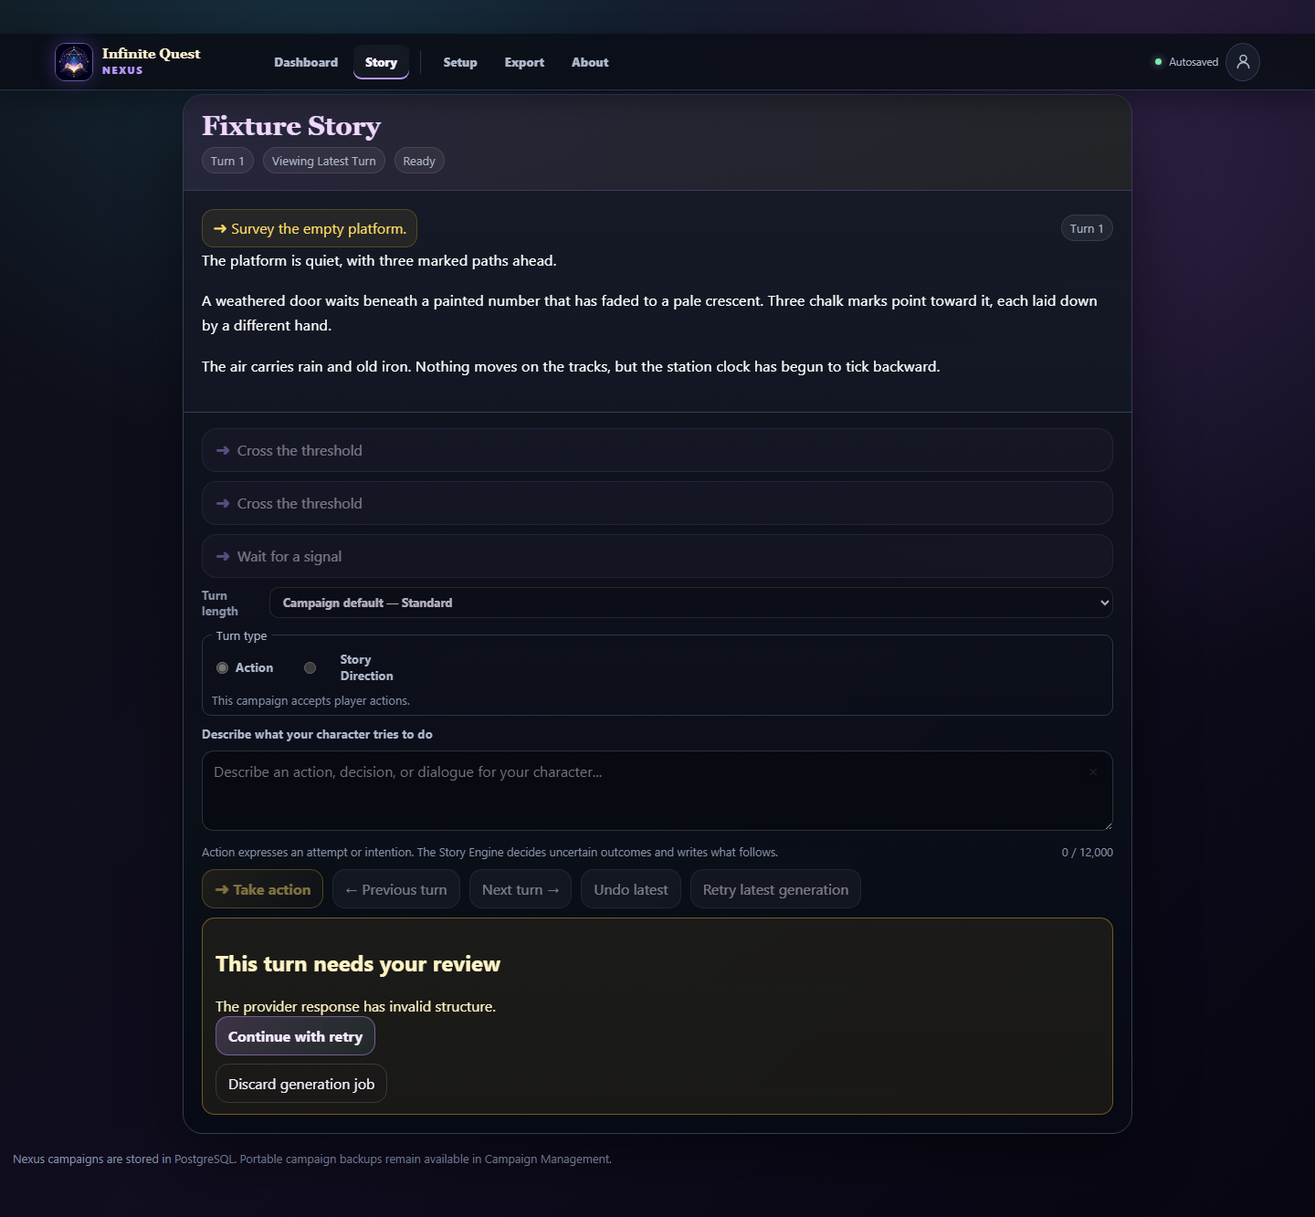
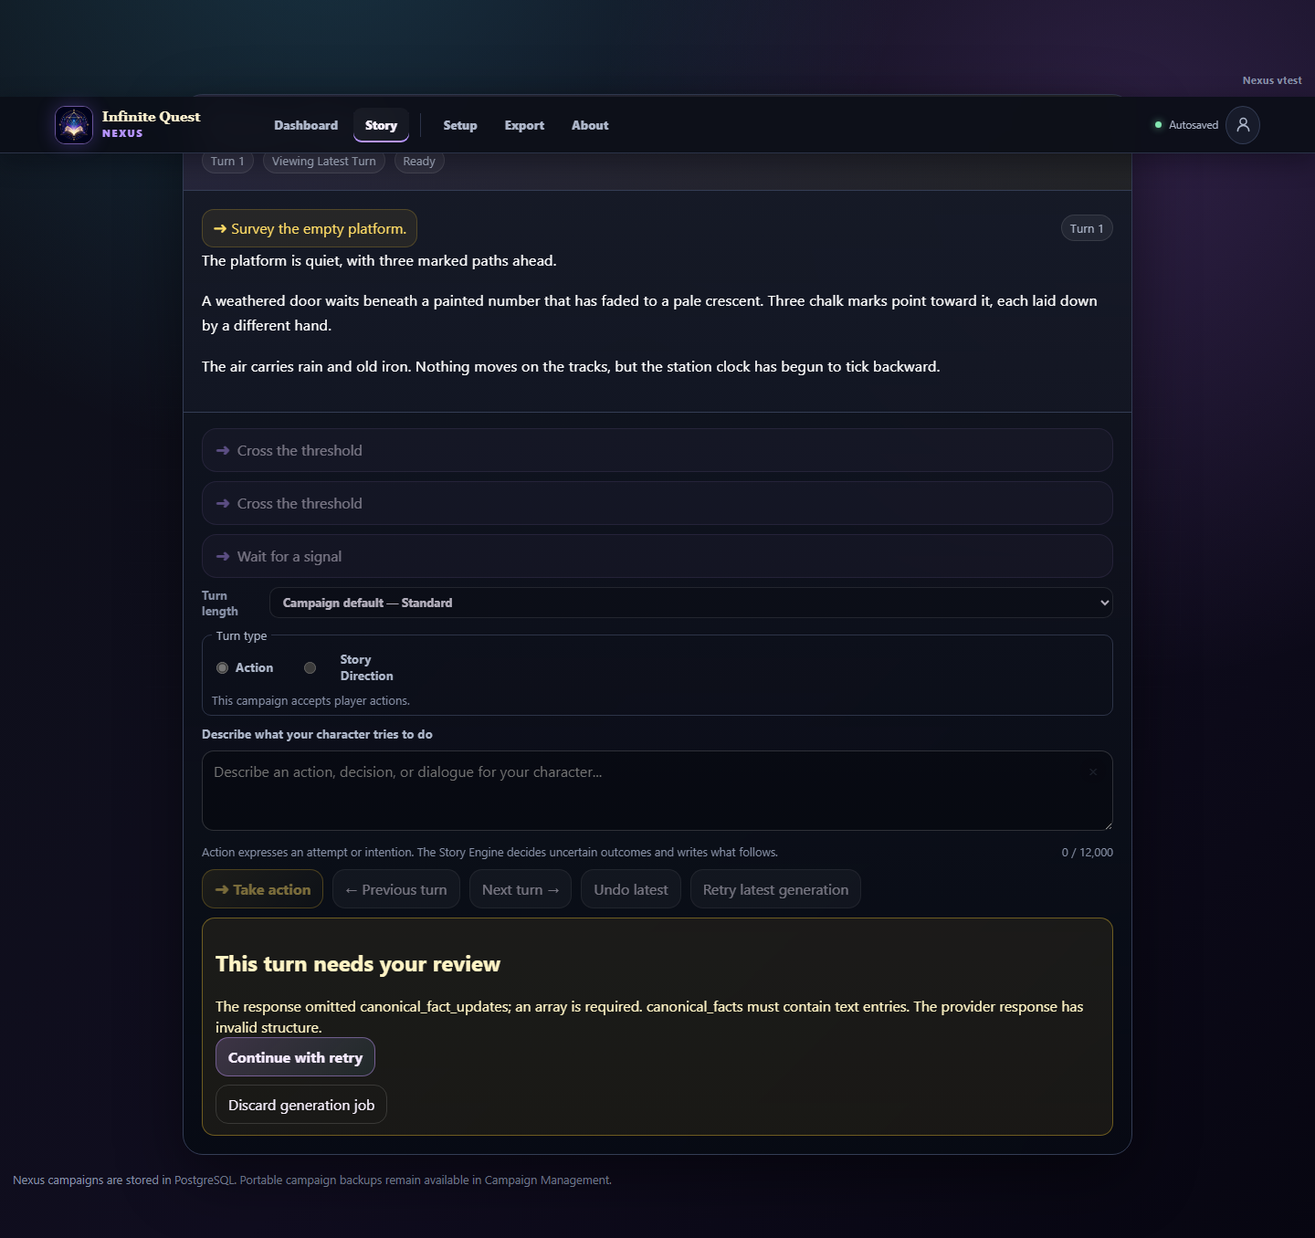
Explain generation structure review failures

diff --git a/tests/integration/generation-review.integration.test.ts b/tests/integration/generation-review.integration.test.ts
@@ -79,7 +79,7 @@ integration("PostgreSQL generation review persistence", () => {
     const reasons: GenerationReviewCheckpoint["reasons"] = eligible ? ["scene_beats_missing"] : ["invalid_structure"];
     const candidate = {
       scope: "main" as const, story, storyHash: sha256Hex(canonicalEvidenceJson(story)), rawOutputReference: null,
-      producingRequestHash: "a".repeat(64), producingResponseId: null, sentFactIds: [], ownerUserId, campaignId: imported.campaignId,
+      producingRequestHash: "a".repeat(64), producingResponseId: "review-response", sentFactIds: [], ownerUserId, campaignId: imported.campaignId,
       worldId: world.rows[0]!.worldId, worldVersionId: payload.world_version_id ?? null, baseTurnNumber: payload.generation_base_identity.baseTurnNumber,
       expectedTurnNumber: payload.expected_turn_number, policy: {}, policyHash: "b".repeat(64), baseIdentity: payload.generation_base_identity,
       protocol: { version: payload.prompt_protocol_version, promptHash: "c".repeat(64) },
@@ -101,6 +101,14 @@ integration("PostgreSQL generation review persistence", () => {
   it("publishes the complete checkpoint while releasing its lease and blocking ordinary retry", async () => {
     const fixture = await pendingReview();
     const commandsAfterPause = commands();
+    await pool.query(
+      `INSERT INTO generation_attempts (owner_user_id, generation_job_id, attempt_number, provider_response_id, validation_errors)
+       VALUES ($1,$2,1,$3,$4::jsonb)`,
+      [ownerUserId, fixture.queued.id, "review-response", JSON.stringify([
+        "superseded_facts: Invalid input: expected array, received undefined",
+        "canonical_fact_updates: Invalid input: expected array, received undefined"
+      ])]
+    );
     const row = await pool.query<{ status: string; lease_owner: string | null; orchestration_private: { generationReview?: unknown } }>(
       "SELECT status,lease_owner,orchestration_private FROM generation_jobs WHERE id=$1", [fixture.queued.id]
     );
@@ -126,7 +134,11 @@ integration("PostgreSQL generation review persistence", () => {
     )).resolves.toEqual(retryBefore);
     await expect(commandsAfterPause.getReview({ ownerUserId, jobId: fixture.queued.id })).resolves.toMatchObject({
       reviewId: fixture.checkpoint.reviewId, revision: 1, state: "pending", narration: fixture.checkpoint.gateCandidate.story?.narration,
-      canKeep: false, canRetry: true, choices: fixture.checkpoint.gateCandidate.story?.choices, findings: [{ code: "invalid_structure", message: expect.any(String) }]
+      canKeep: false, canRetry: true, choices: fixture.checkpoint.gateCandidate.story?.choices, findings: [{ code: "invalid_structure", message: expect.any(String) }],
+      validationIssues: [
+        { field: "superseded_facts", code: "missing_array" },
+        { field: "canonical_fact_updates", code: "missing_array" }
+      ]
     });
     await expect(commandsAfterPause.getJob({ ownerUserId, jobId: fixture.queued.id })).resolves.toMatchObject({
       id: fixture.queued.id,
@@ -139,6 +151,37 @@ integration("PostgreSQL generation review persistence", () => {
     await expect(commandsAfterPause.retry({ ownerUserId, jobId: fixture.queued.id })).rejects.toMatchObject({
       kind: "invalid_state", details: { reason: "retry_source_state", generationStatus: "discarded" }
     });
+  });
+
+  it("binds diagnostics to one producing response and omits stale or ambiguous attempts", async () => {
+    const fixture = await pendingReview();
+    const repository = commands();
+    const insert = (number: number, responseId: string, errors: readonly string[]) => pool.query(
+      `INSERT INTO generation_attempts (owner_user_id, generation_job_id, attempt_number, provider_response_id, validation_errors)
+       VALUES ($1,$2,$3,$4,$5::jsonb)`, [ownerUserId, fixture.queued.id, number, responseId, JSON.stringify(errors)]
+    );
+    await insert(1, "stale-response", ["canonical_facts.0: Invalid input: expected string, received object"]);
+    await expect(repository.getReview({ ownerUserId, jobId: fixture.queued.id })).resolves.not.toHaveProperty("validationIssues");
+    await insert(2, "review-response", ["canonical_facts.0: Invalid input: expected string, received object"]);
+    await expect(repository.getReview({ ownerUserId, jobId: fixture.queued.id })).resolves.toMatchObject({
+      validationIssues: [{ field: "canonical_facts", code: "expected_string_item" }]
+    });
+    await insert(3, "review-response", ["canonical_fact_updates: Invalid input: expected array, received undefined"]);
+    await expect(repository.getReview({ ownerUserId, jobId: fixture.queued.id })).resolves.not.toHaveProperty("validationIssues");
+    await pool.query(
+      `UPDATE generation_jobs
+          SET orchestration_private = jsonb_set(orchestration_private, '{generationReview,gateCandidate,producingResponseId}', 'null'::jsonb)
+        WHERE id=$1`, [fixture.queued.id]
+    );
+    await expect(repository.getReview({ ownerUserId, jobId: fixture.queued.id })).resolves.not.toHaveProperty("validationIssues");
+    await pool.query(
+      `UPDATE generation_jobs
+          SET status='discarded', orchestration_private = jsonb_set(orchestration_private, '{generationReview,state}', '"decided"'::jsonb)
+        WHERE id=$1`, [fixture.queued.id]
+    );
+    await expect(repository.getReview({ ownerUserId, jobId: fixture.queued.id })).resolves.not.toHaveProperty("validationIssues");
+    const foreignOwner = (await pool.query<{ id: string }>("INSERT INTO users(display_name) VALUES ('Diagnostic foreign owner') RETURNING id")).rows[0]!.id;
+    await expect(repository.getReview({ ownerUserId: foreignOwner, jobId: fixture.queued.id })).rejects.toMatchObject({ kind: "not_found" });
   });
 
   it("hydrates the pending review into recovery sync and changes its fingerprint when only the review revision changes", async () => {

diff --git a/packages/contracts/src/generation-review.ts b/packages/contracts/src/generation-review.ts
@@ -28,11 +28,45 @@ export const generationReviewFindingSchema = z.strictObject({
   message: z.string().trim().min(1).max(500)
 });
 
+export const generationValidationIssueFieldSchema = z.enum(["superseded_facts", "canonical_fact_updates", "canonical_facts"]);
+export const generationValidationIssueCodeSchema = z.enum(["missing_array", "expected_string_item", "invalid_field_shape"]);
+export const generationValidationIssueSchema = z.strictObject({
+  field: generationValidationIssueFieldSchema,
+  code: generationValidationIssueCodeSchema
+});
+
 export const generationReviewDetailSchema = generationReviewSummarySchema.extend({
   narration: z.string().max(200_000).nullable(), choices: z.array(z.string().max(20_000)).max(100),
   findings: z.array(generationReviewFindingSchema).max(20), retryDescription: z.string().trim().min(1).max(500),
-  retryFailure: z.string().trim().min(1).max(500).nullable(), omittedFindingCount: z.number().int().min(0)
+  retryFailure: z.string().trim().min(1).max(500).nullable(), omittedFindingCount: z.number().int().min(0),
+  validationIssues: z.array(generationValidationIssueSchema).max(8).optional()
 }).strict();
+
+const validationFields = ["superseded_facts", "canonical_fact_updates", "canonical_facts"] as const;
+const missingArrayPattern = /^(superseded_facts|canonical_fact_updates|canonical_facts): Invalid input: expected array, received undefined$/u;
+const expectedStringItemPattern = /^(superseded_facts|canonical_fact_updates|canonical_facts)\.\d+: Invalid input: expected string, received object$/u;
+const invalidFieldShapePattern = /^(superseded_facts|canonical_fact_updates|canonical_facts): Invalid input: expected array, received (?:null|boolean|number|string|object)$/u;
+
+/** Projects only recognized validator shapes; provider text is never retained. */
+export function projectGenerationValidationIssues(errors: readonly string[]): GenerationValidationIssue[] {
+  const issues: GenerationValidationIssue[] = [];
+  const seen = new Set<string>();
+  for (const error of errors.slice(0, 100)) {
+    const missing = missingArrayPattern.exec(error);
+    const item = expectedStringItemPattern.exec(error);
+    const shape = invalidFieldShapePattern.exec(error);
+    const match = missing ?? item ?? shape;
+    if (!match || !validationFields.includes(match[1] as GenerationValidationIssueField)) continue;
+    const issue: GenerationValidationIssue = {
+      field: match[1] as GenerationValidationIssueField,
+      code: missing ? "missing_array" : item ? "expected_string_item" : "invalid_field_shape"
+    };
+    const key = `${issue.field}:${issue.code}`;
+    if (!seen.has(key)) { seen.add(key); issues.push(issue); }
+    if (issues.length === 8) break;
+  }
+  return issues;
+}
 
 const reviewReasonMessages: Record<GenerationReviewReasonCode, string> = {
   scene_beats_missing: "The candidate does not cover all requested scene beats.",
@@ -57,7 +91,8 @@ const generationReviewDetailProjectionInputSchema = z.object({
   review: generationReviewSummarySchema.passthrough(),
   candidate: fictionPreviewSchema.nullable().optional(),
   continuityReview: continuityReviewSchema.nullable().optional(),
-  omittedFindingCount: z.number().int().min(0).optional()
+  omittedFindingCount: z.number().int().min(0).optional(),
+  validationIssues: z.array(generationValidationIssueSchema).max(8).optional()
 }).passthrough();
 
 const continuityCategoryLabels = {
@@ -99,7 +134,8 @@ export function projectGenerationReviewDetail(value: unknown): GenerationReviewD
     // Retry execution errors are private orchestration diagnostics.  The public
     // surface records only that the one authorized replacement was unavailable.
     retryFailure: input.review.retryFailure ? "The authorized retry did not produce an acceptable replacement." : null,
-    omittedFindingCount: input.omittedFindingCount ?? 0
+    omittedFindingCount: input.omittedFindingCount ?? 0,
+    ...(input.validationIssues ? { validationIssues: input.validationIssues } : {})
   });
 }
 
@@ -117,4 +153,7 @@ export type GenerationReviewDecisionRequest = Readonly<z.infer<typeof generation
 export type GenerationReviewSummary = Readonly<z.infer<typeof generationReviewSummarySchema>>;
 export type GenerationReviewTransport = Readonly<z.infer<typeof generationReviewTransportSchema>>;
 export type GenerationReviewFinding = Readonly<z.infer<typeof generationReviewFindingSchema>>;
+export type GenerationValidationIssueField = z.infer<typeof generationValidationIssueFieldSchema>;
+export type GenerationValidationIssueCode = z.infer<typeof generationValidationIssueCodeSchema>;
+export type GenerationValidationIssue = Readonly<z.infer<typeof generationValidationIssueSchema>>;
 export type GenerationReviewDetail = Readonly<z.infer<typeof generationReviewDetailSchema>>;

diff --git a/tests/e2e/generation-review.e2e.test.ts b/tests/e2e/generation-review.e2e.test.ts
@@ -29,6 +29,7 @@ interface ReviewFixtureOptions {
   readonly conflictWhenAccepted?: boolean;
   readonly replaceLatest?: boolean;
   readonly structureReview?: boolean;
+  readonly validationIssues?: readonly { field: "superseded_facts" | "canonical_fact_updates" | "canonical_facts"; code: "missing_array" | "expected_string_item" | "invalid_field_shape" }[];
 }
 
 async function installReviewApi(page: Page, canKeep = true, decisionFails = false, decisionCompletes = false, options: ReviewFixtureOptions = {}) {
@@ -39,7 +40,7 @@ async function installReviewApi(page: Page, canKeep = true, decisionFails = fals
   const review = { version: 1, reviewId, revision: 1, state: "pending", stage: options.structureReview ? "structure" : "continuity", candidateScope: "final", reasons: [options.structureReview ? "invalid_structure" : canKeep ? "narrative_conflict" : "invalid_choices"], canKeep: options.structureReview ? false : canKeep, canRetry: true };
   const candidateNarration = options.structureReview ? null : "The lighthouse bell answered across the harbor.";
   const candidateChoices = options.structureReview ? [] : ["Follow the bell", "Wait at the quay"];
-  const detail = { ...review, narration: candidateNarration, choices: candidateChoices, findings: [{ code: review.reasons[0], message: options.structureReview ? "The provider response has invalid structure." : canKeep ? "The candidate may conflict with established story continuity." : "The candidate choices do not meet the required structure." }], retryDescription: "Retry this generation stage.", retryFailure: null, omittedFindingCount: 0 };
+  const detail = { ...review, narration: candidateNarration, choices: candidateChoices, findings: [{ code: review.reasons[0], message: options.structureReview ? "The provider response has invalid structure." : canKeep ? "The candidate may conflict with established story continuity." : "The candidate choices do not meet the required structure." }], retryDescription: "Retry this generation stage.", retryFailure: null, omittedFindingCount: 0, ...(options.validationIssues ? { validationIssues: options.validationIssues } : {}) };
   const decisions: Record<string, unknown>[] = [];
   const writePaths: string[] = [];
   const sharedState = options.sharedState ?? { accepted: false };
@@ -253,7 +254,10 @@ async function installStagedReviewStream(page: Page, snapshots: { readonly gener
 
 for (const surface of ["legacy", "web-next"] as const) {
   test(`${surface} reloads a structure review ahead of context advice and posts only its explicit Retry decision`, async ({ page }) => {
-    const api = await installReviewApi(page, false, false, false, { structureReview: true });
+    const api = await installReviewApi(page, false, false, false, { structureReview: true, validationIssues: [
+      { field: "canonical_fact_updates", code: "missing_array" },
+      { field: "canonical_facts", code: "expected_string_item" }
+    ] });
     if (surface === "legacy") {
       const html = (await readFile("apps/web/public/story.html", "utf8")).replace("/nexus/legacy-client.js", "/nexus/src/legacy-client-entry.ts");
       await page.route("**/vendor/photoswipe/photoswipe.css", route => route.fulfill({ contentType: "text/css", body: "" }));
@@ -277,6 +281,8 @@ for (const surface of ["legacy", "web-next"] as const) {
     await expect(activeTurn).toHaveText(surface === "legacy" ? "Turn 1" : "Active turn 1");
     await expect(turnTwo).toHaveCount(0);
     await expect(recovery).toContainText("invalid structure");
+    await expect(recovery).toContainText("The response omitted canonical_fact_updates; an array is required.");
+    await expect(recovery).toContainText("canonical_facts must contain text entries.");
     await expect(recovery).not.toContainText("Context evidence was omitted");
     await expect(recovery.getByRole("button", { name: "Keep this turn", exact: true })).toHaveCount(0);
     await expect(preview).toBeHidden();

diff --git a/tests/unit/generation-review-contracts.test.ts b/tests/unit/generation-review-contracts.test.ts
@@ -3,6 +3,7 @@ import {
   generationJobSnapshotSchema,
   generationReviewDecisionRequestSchema,
   generationReviewReasonCodeSchema,
+  projectGenerationValidationIssues,
   projectGenerationReviewDetail,
   projectGenerationReviewSummary
 } from "../../packages/contracts/src/index.js";
@@ -40,6 +41,38 @@ const snapshot = {
 };
 
 describe("generation review contracts", () => {
+  it("projects only known structural validation errors into finite safe issues", () => {
+    expect(projectGenerationValidationIssues([
+      "superseded_facts: Invalid input: expected array, received undefined",
+      "canonical_fact_updates: Invalid input: expected array, received undefined"
+    ])).toEqual([
+      { field: "superseded_facts", code: "missing_array" },
+      { field: "canonical_fact_updates", code: "missing_array" }
+    ]);
+    expect(projectGenerationValidationIssues([
+      "canonical_facts.0: Invalid input: expected string, received object",
+      "canonical_facts.1: Invalid input: expected string, received object"
+    ])).toEqual([{ field: "canonical_facts", code: "expected_string_item" }]);
+    expect(projectGenerationValidationIssues([
+      "PRIVATE_CANARY: provider response and prompt contents"
+    ])).toEqual([]);
+  });
+
+  it("rejects malformed, unsupported, repeated, and overlong validation diagnostics", () => {
+    const privateCanary = "PRIVATE_VALIDATION_CANARY";
+    expect(projectGenerationValidationIssues([
+      "canonical_facts.x: Invalid input: expected string, received object",
+      "unknown_field: Invalid input: expected array, received undefined",
+      "canonical_facts.0: Invalid input: expected number, received string",
+      `canonical_facts: ${privateCanary}`,
+      "canonical_facts: Invalid input: expected array, received object",
+      "canonical_facts: Invalid input: expected array, received object",
+      ...Array.from({ length: 20 }, () => "superseded_facts: Invalid input: expected array, received null")
+    ])).toEqual([
+      { field: "canonical_facts", code: "invalid_field_shape" },
+      { field: "superseded_facts", code: "invalid_field_shape" }
+    ]);
+  });
   it("rejects a decision request with user-controlled bypass fields", () => {
     expect(generationReviewDecisionRequestSchema.safeParse({
       reviewId: review.reviewId,
@@ -216,6 +249,11 @@ describe("generation review contracts", () => {
     ]);
     expect(detail).toMatchObject({ narration: "Mira crosses the quay.", choices: ["Follow Mira"], retryFailure: null, omittedFindingCount: 2 });
     expect(JSON.stringify(detail)).not.toContain("PRIVATE-CANARY");
+  });
+
+  it("keeps an absent validation issue field valid for stored review details", () => {
+    const detail = projectGenerationReviewDetail({ review, candidate: null });
+    expect(detail.validationIssues).toBeUndefined();
   });
 
   it("rejects a typed story candidate whose stable hash does not match its content", () => {

diff --git a/packages/database/src/generation-repository.ts b/packages/database/src/generation-repository.ts
@@ -14,7 +14,7 @@ import {
 } from "../../application/src/index.js";
 import { generationReviewCheckpointSchema, generationReviewFindingsHash } from "../../application/src/generation/review-checkpoint.js";
 import { canKeepGenerationCandidate } from "../../application/src/generation/review-policy.js";
-import { generationReviewDecisionRequestSchema, projectGenerationReviewDetail } from "../../contracts/src/generation-review.js";
+import { generationReviewDecisionRequestSchema, projectGenerationReviewDetail, projectGenerationValidationIssues } from "../../contracts/src/generation-review.js";
 import { continuityReviewCheckpointSchema } from "../../application/src/memory/continuity-review-checkpoint.js";
 import {
   assertStoryMemoryPromptCompatibility,
@@ -690,6 +690,19 @@ export function createPostgresGenerationCommandRepository(
       if (!row) throw notFound({ jobId: scope.jobId });
       const checkpoint = generationReviewCheckpointSchema.safeParse(row.orchestrationPrivate?.generationReview);
       if (!checkpoint.success) throw new GenerationApplicationError("invalid_state");
+      const producingResponseId = checkpoint.data.gateCandidate.producingResponseId;
+      const attempts = row.status !== "recoverable" || checkpoint.data.state !== "pending" || producingResponseId === null ? [] : (await pool.query<{ validationErrors: unknown }>(
+        `SELECT validation_errors AS "validationErrors"
+           FROM generation_attempts
+          WHERE generation_job_id = $1 AND owner_user_id = $2 AND provider_response_id = $3
+          LIMIT 2`,
+        [scope.jobId, scope.ownerUserId, producingResponseId]
+      )).rows;
+      const validationErrors = attempts.length === 1 && Array.isArray(attempts[0]!.validationErrors)
+        && attempts[0]!.validationErrors.every((error): error is string => typeof error === "string")
+        ? attempts[0]!.validationErrors
+        : [];
+      const validationIssues = projectGenerationValidationIssues(validationErrors);
       return projectGenerationReviewDetail({
         review: {
           ...checkpoint.data,
@@ -705,7 +718,8 @@ export function createPostgresGenerationCommandRepository(
             state.continuityReview ?? row.orchestrationPrivate?.continuityReview
           );
           return continuity.success ? continuity.data.result : null;
-        })()
+        })(),
+        ...(validationIssues.length ? { validationIssues } : {})
       });
     },
 

diff --git a/apps/web/src/story.js b/apps/web/src/story.js
@@ -1535,7 +1535,13 @@ function showGenerationRecovery(jobId, message, kind = "generation", guidance = 
     reviewPanel.classList.toggle("hidden", !reviewView);
     if (reviewView) {
       $("generationReviewHeading").textContent = reviewView.state === "review" ? "This turn needs your review" : "Generation review unavailable";
-      $("generationReviewReason").textContent = review?.detail?.findings?.map(finding => finding.message).join(" ") || reviewView.message;
+      const validationMessages = review?.detail?.validationIssues?.map(issue => {
+        if (issue.field === "canonical_fact_updates" && issue.code === "missing_array") return "The response omitted canonical_fact_updates; an array is required.";
+        if (issue.field === "canonical_facts" && issue.code === "expected_string_item") return "canonical_facts must contain text entries.";
+        if (issue.code === "missing_array") return `The response omitted ${issue.field}; an array is required.`;
+        return issue.code === "expected_string_item" ? `${issue.field} must contain text entries.` : `The response has an invalid ${issue.field} shape.`;
+      }) || [];
+      $("generationReviewReason").textContent = [...validationMessages, ...(review?.detail?.findings?.map(finding => finding.message) || [])].join(" ") || reviewView.message;
       const preview = $("generationReviewPreview");
       preview.replaceChildren();
       if (review?.detail?.narration) preview.append(...review.detail.narration.split(/\r?\n/).filter(Boolean).map(text => { const p = document.createElement("p"); p.textContent = text; return p; }));

diff --git a/tests/unit/generation-review-projection.test.ts b/tests/unit/generation-review-projection.test.ts
@@ -83,4 +83,17 @@ describe("generation review public projection", () => {
     });
     expect(detail.findings).toEqual([{ code: "narrative_conflict", message: "Possible location contradiction in “sealed”." }]);
   });
+
+  test("retains only strict validation issue codes at the API response boundary", () => {
+    const privateCanary = "PRIVATE_VALIDATION_RESPONSE_CANARY";
+    const detail = projectGenerationReviewDetailResponse({
+      version: 1, reviewId, revision: 1, state: "pending", stage: "structure", candidateScope: "final",
+      reasons: ["invalid_structure"], canKeep: false, canRetry: true, narration: null, choices: [],
+      findings: [{ code: "invalid_structure", message: privateCanary }], retryDescription: "Retry this generation stage.",
+      retryFailure: null, omittedFindingCount: 0,
+      validationIssues: [{ field: "canonical_fact_updates", code: "missing_array" }]
+    });
+    expect(detail.validationIssues).toEqual([{ field: "canonical_fact_updates", code: "missing_array" }]);
+    expect(JSON.stringify(detail)).not.toContain(privateCanary);
+  });
 });

diff --git a/apps/web-next/src/story-player-view.ts b/apps/web-next/src/story-player-view.ts
@@ -143,6 +143,14 @@ function recovery(document: Document, state: StoryPlayerViewState): HTMLElement 
     if (detail) {
       const findings = element(document, "ul", "story-recovery-details");
       findings.setAttribute("aria-label", "Review findings");
+      for (const issue of detail.validationIssues ?? []) {
+        const message = issue.code === "missing_array"
+          ? `The response omitted ${issue.field}; an array is required.`
+          : issue.code === "expected_string_item"
+            ? `${issue.field} must contain text entries.`
+            : `The response has an invalid ${issue.field} shape.`;
+        findings.append(element(document, "li", undefined, message));
+      }
       for (const finding of detail.findings) findings.append(element(document, "li", undefined, finding.message));
       section.append(findings);
       if (detail.narration !== null) {
